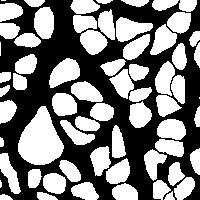
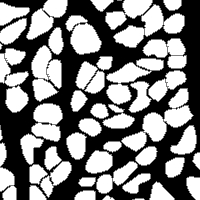
membrane problem

diff --git a/solver/diffusion.c b/solver/diffusion.c
@@ -83,32 +83,21 @@ void compute_mesh(struct Point points[], int n_x, int n_y,
 }
 
 void set_diffusivities(struct Point points[], int n_x, int n_y,
-                       double diffus_1, double diffus_2,
-                       int i_1, int i_2, int j_1, int j_2)
+                       double diffus_1, double diffus_2, double diffus_3)
 {
     int center;
-
-    // for (int j = 0; j < n_y; j++) {
-    //     for (int i = 0; i < n_x; i++) {
-    //         center = i + j * n_x;
-    //
-    //         if (i < i_1 || i > i_2 || j < j_1 || j > j_2)
-    //             points[center].diffusivity = diffus_1;
-    //         else
-    //             points[center].diffusivity = diffus_2;
-    //     }
-    // }
 
     for(int y = 0; y < height; y++) {
         png_bytep row = row_pointers[y];
         for(int x = 0; x < width; x++) {
             center = x + y * width;
             png_bytep px = &(row[x * 4]);
-            // printf("%4d, %4d = %3d\n", x, y, px[0]);
-            if (px[0])
+            if (px[0] == 255)
                 points[center].diffusivity = diffus_1;
-            else
+            else if (px[0] == 0)
                 points[center].diffusivity = diffus_2;
+            else
+                points[center].diffusivity = diffus_3;
         }
     }
 }
@@ -177,8 +166,7 @@ double compute_step(struct Point points[], int n_x, int n_y, double timestep,
 int solve_diffusion(int print, struct Point points[], int n_x, int n_y,
                     double total_time, double initial_temp,
                     int i_bc, int j_bc, double source_val,
-                    double diff_1, double diff_2,
-                    int i_1, int i_2, int j_1, int j_2)
+                    double diff_1, double diff_2, double diff_3)
 {
     double res = 10.0;
     int iter = 0, length = n_x * n_y;
@@ -186,6 +174,7 @@ int solve_diffusion(int print, struct Point points[], int n_x, int n_y,
     double delta_space, timestep, side_size, max_diff;
 
     max_diff = diff_1 > diff_2 ? diff_1 : diff_2;
+    max_diff = diff_3 > max_diff ? diff_3 : max_diff;
     side_size = sqrt(2 * max_diff * total_time);
 
     if (print)
@@ -202,7 +191,7 @@ int solve_diffusion(int print, struct Point points[], int n_x, int n_y,
         printf("Delta time = %.10e\n", timestep);
 
     compute_mesh(points, n_x, n_y, d_x, d_y);
-    set_diffusivities(points, n_x, n_y, diff_1, diff_2, i_1, i_2, j_1, j_2);
+    set_diffusivities(points, n_x, n_y, diff_1, diff_2, diff_3);
     init_temperatures(points, length, initial_temp);
 
     points[i_bc + j_bc * n_x].source = source_val;
@@ -215,17 +204,18 @@ int solve_diffusion(int print, struct Point points[], int n_x, int n_y,
                 printf("Residual = %.10e, Number of iterations = %d\n",
                         res, iter);
 
-        // if (iter % 10000 == 0) {
-        //     write_vtk(points, n_x, n_y, iter / 10000);
-        //     write_res_vtk(points, n_x, n_y, iter / 10000);
-        // }
+        int plot_every = 2500;
+        if (iter % plot_every == 0) {
+            write_vtk(points, n_x, n_y, iter / plot_every);
+            // write_res_vtk(points, n_x, n_y, iter / plot_every);
+        }
     }
 
     if (print)
         printf("Residual = %.10e, Number of iterations = %d\n", res, iter);
 
     write_vtk(points, n_x, n_y, 0);
-    write_res_vtk(points, n_x, n_y, 0);
+    // write_res_vtk(points, n_x, n_y, 0);
 
     return iter;
 }

diff --git a/solver/diffusion.h b/solver/diffusion.h
@@ -13,16 +13,14 @@ void read_png_file(char *filename, int *n_x_ptr, int *n_y_ptr);
 void compute_mesh(struct Point points[], int n_x, int n_y,
                   double delta_x, double delta_y);
 void set_diffusivities(struct Point points[], int n_x, int n_y,
-                       double diffus_1, double diffus_2,
-                       int i_1, int i_2, int j_1, int j_2);
+                       double diffus_1, double diffus_2, double diffus_3);
 void init_temperatures(struct Point points[], int points_length, double temp);
 double compute_step(struct Point points[], int n_x, int n_y, double timestep,
                     double delta_x, double delta_y);
 int solve_diffusion(int print, struct Point points[], int n_x, int n_y,
                     double total_time, double initial_temp,
                     int i_bc, int j_bc, double source_val,
-                    double diff_1, double diff_2,
-                    int i_1, int i_2, int j_1, int j_2);
+                    double diff_1, double diff_2, double diff_3);
 void write_vtk(struct Point points[], int n_x, int n_y, int iter_number);
 void write_res_vtk(struct Point points[], int n_x, int n_y, int iter_number);
 

diff --git a/scripts/introduce_membrane.py b/scripts/introduce_membrane.py
@@ -1,0 +1,36 @@
+#!/usr/bin/env python
+
+import cv2
+import numpy as np
+
+img = cv2.imread('../segmentation_bw_original.png', 0)
+print type(img), img.shape
+
+# img = img / 255
+# print img.tolist()
+
+it =  np.nditer(img, op_flags=['readwrite'], order='C')
+
+prev = 127
+while not it.finished:
+    dif = abs(prev - it[0])
+    if dif == 255 or dif == 1:
+        it[0] = 127
+    prev = it[0]
+    it.iternext()
+
+it =  np.nditer(img, op_flags=['readwrite'], order='F')
+
+prev = 127
+while not it.finished:
+    dif = abs(prev - it[0])
+    if dif == 255 or dif == 1:
+        it[0] = 127
+    prev = it[0]
+    it.iternext()
+
+cv2.imwrite('../segmentation_bw_new.png', img)
+
+# cv2.imshow('image', img)
+# cv2.waitKey(0)
+# cv2.destroyAllWindows()

diff --git a/solver/main.c b/solver/main.c
@@ -10,19 +10,18 @@
 int main()
 {
     int n_x, n_y;
-    
+
     read_png_file("../segmentation_bw.png", &n_x, &n_y);
 
     int length = n_x * n_y;
     struct Point *points = (struct Point*)malloc(sizeof(struct Point) * length);
     double total_time = 1.0;
     double init_temp = 0.0, source = 1e5;
-    double diff_1 = 1.5e-5, diff_2 = 3e-5;
+    double diff_1 = 1.5e-5, diff_2 = 3e-5, diff_3 = 1.5e-6;
 
     solve_diffusion(1, points, n_x, n_y, total_time,
                     init_temp, 100, 100, source,
-                    diff_1, diff_2,
-                    0, 4, 0, 2);
+                    diff_1, diff_2, diff_3);
 
     return EXIT_SUCCESS;
 }
